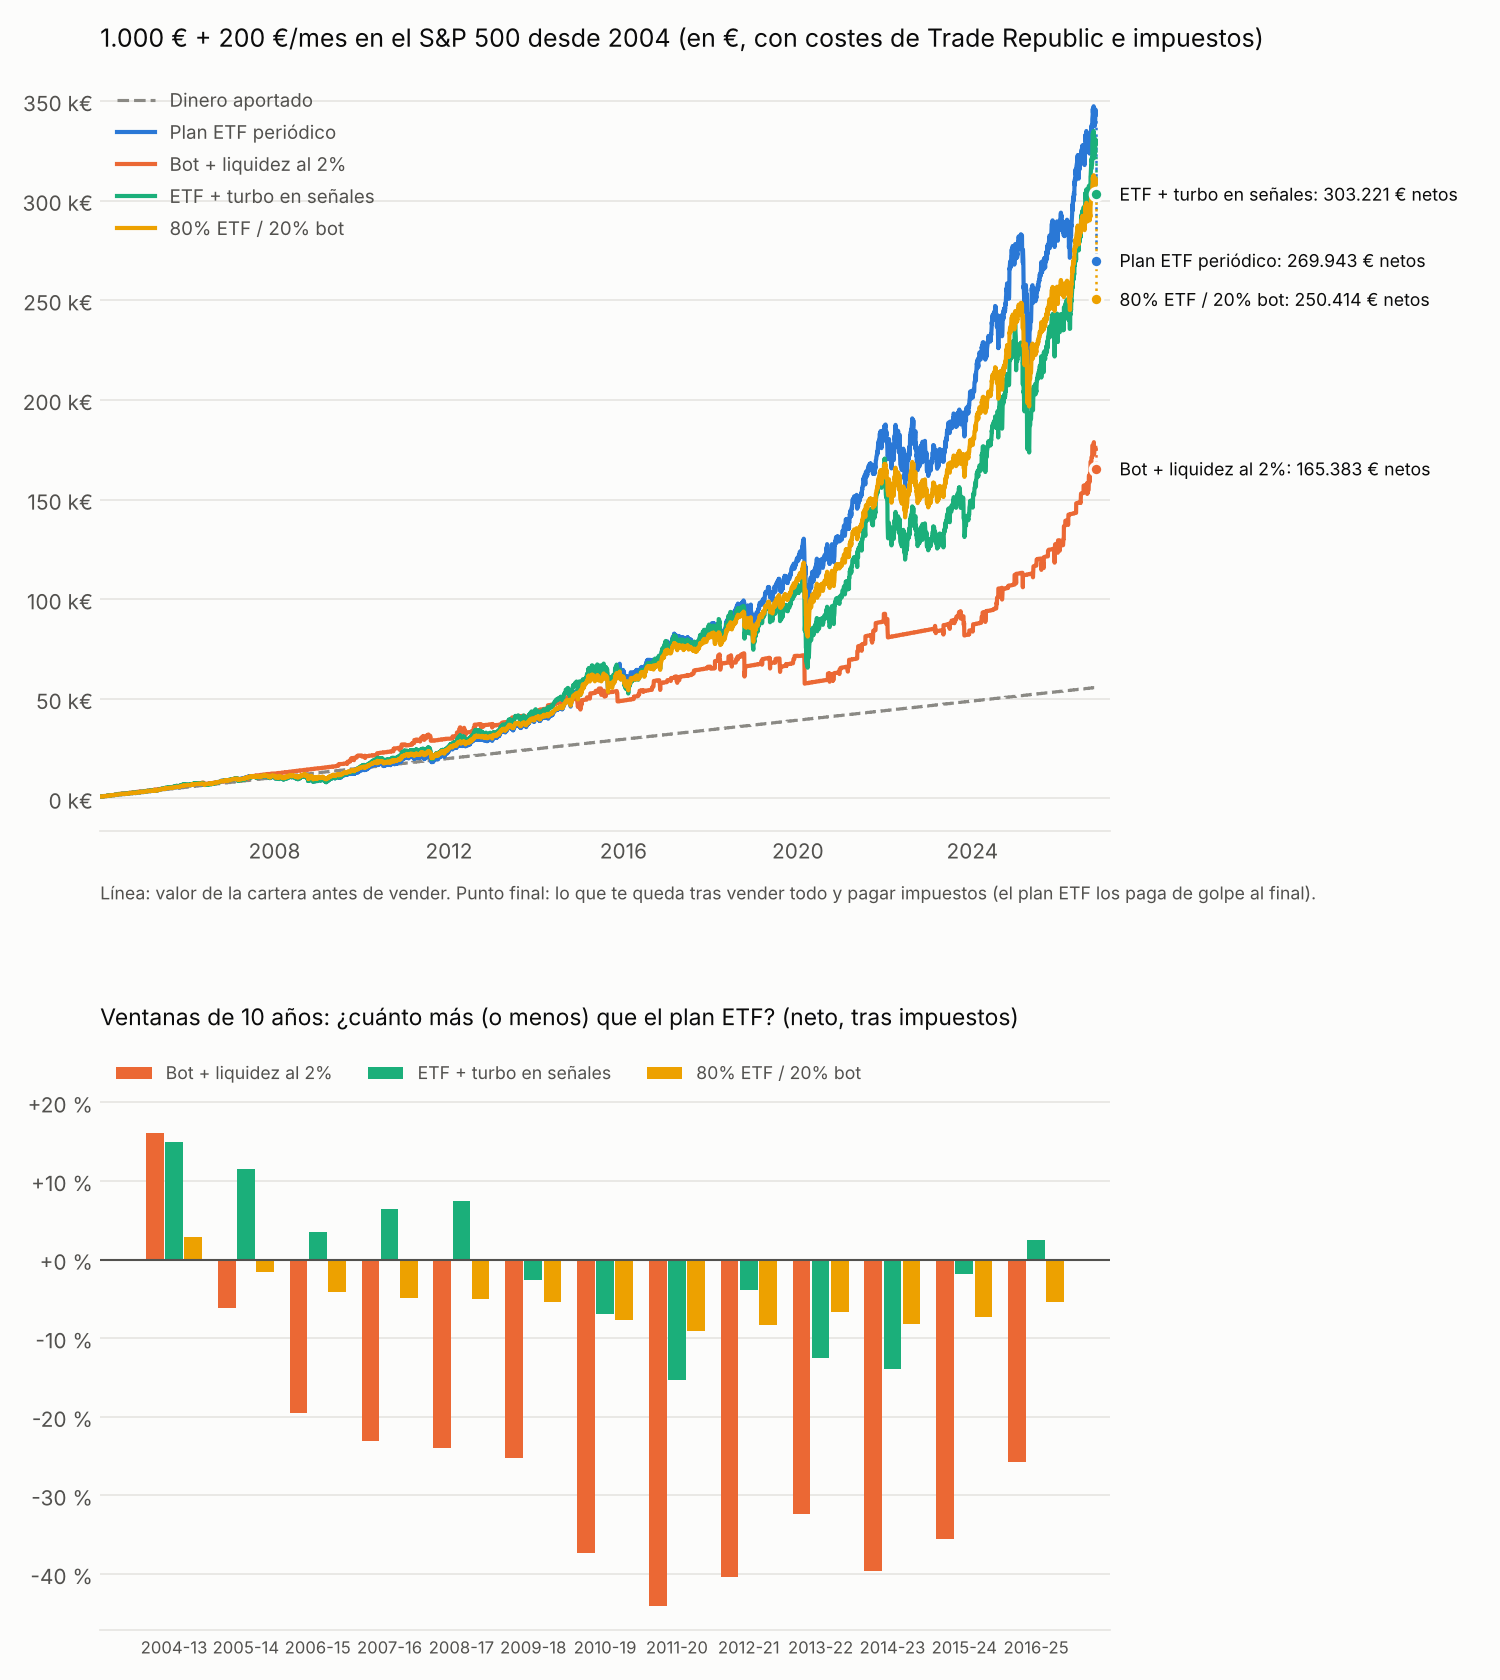
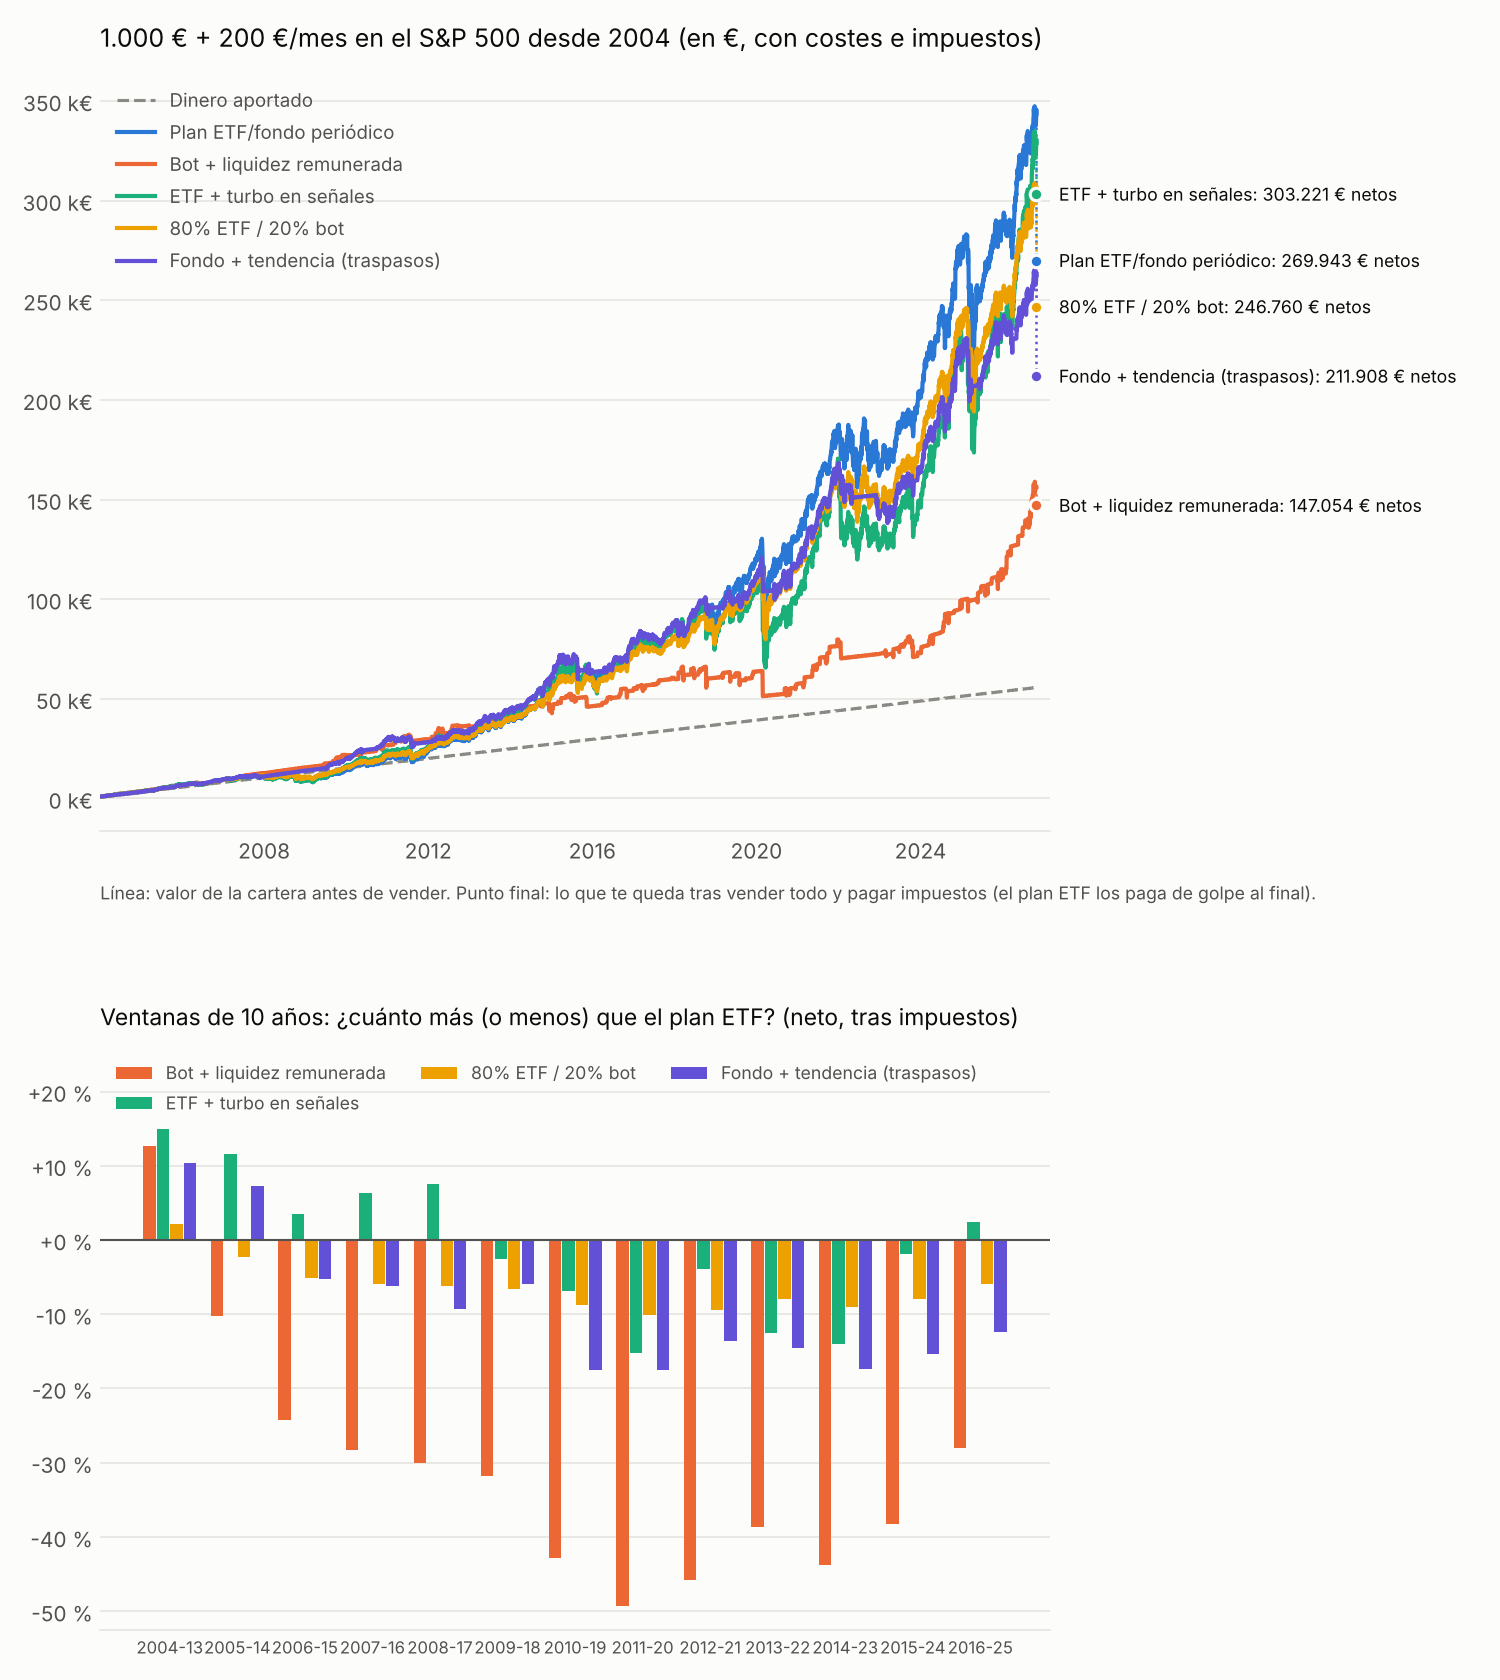
Opción MyInvestor: fondo indexado con filtro de tendencia por traspasos
- Nueva estrategia fondo S&P 500 <-> monetario (regla mensual SMA200) con
  traspasos sin tributación y retraso de ejecución
- Liquidez remunerada con tipos del euro históricos aproximados
- README: comparativa Trade Republic vs MyInvestor y gráfico actualizado

Claude-Session: https://claude.ai/code/session_011mgkmwBCwbqX7FxigTLDYu

diff --git a/swingbot/compare.py b/swingbot/compare.py
@@ -30,6 +30,25 @@ from .strategies import get
 ETF_TR_SYMBOL = "SPY"   # proxy de un ETF UCITS del S&P 500 con dividendos (TER similar)
 ETF_SPREAD = 0.0005     # horquilla al vender/comprar el ETF en el modo turbo
 
+# Tipo del euro a corto plazo, media anual aproximada (EONIA / €STR). Es una
+# aproximación para remunerar la liquidez y el fondo monetario; no son datos oficiales.
+EUR_SHORT_RATE = {
+    2003: 0.023, 2004: 0.021, 2005: 0.021, 2006: 0.028, 2007: 0.039, 2008: 0.039,
+    2009: 0.007, 2010: 0.004, 2011: 0.009, 2012: 0.002, 2013: 0.001, 2014: 0.001,
+    2015: -0.001, 2016: -0.003, 2017: -0.0035, 2018: -0.0036, 2019: -0.0039,
+    2020: -0.0046, 2021: -0.0057, 2022: 0.000, 2023: 0.032, 2024: 0.036, 2025: 0.022,
+    2026: 0.019,
+}
+MONETARY_FEE = 0.0015       # comisión aproximada de un fondo monetario barato
+SWITCH_LAG = 3              # sesiones que tarda en ejecutarse un traspaso switch
+
+
+def eur_cash_daily(dates: pd.DatetimeIndex, fee: float = MONETARY_FEE) -> pd.Series:
+    """Rentabilidad diaria aproximada de la liquidez / fondo monetario en €."""
+    yr = pd.Series(dates.year, index=dates).map(EUR_SHORT_RATE).fillna(0.02)
+    return (yr - fee) / 252
+
+
 # Escala del ahorro en España (IRPF, base del ahorro). Comprobar cada año.
 TAX_BRACKETS_ES = [(6_000, 0.19), (50_000, 0.21), (200_000, 0.23), (300_000, 0.27),
                    (float("inf"), 0.28)]
@@ -137,7 +156,7 @@ def xirr(flows) -> float:
 
 def build_paths(start="2004-01-01", end=None, initial=1_000.0, monthly=200.0,
                 strategy="pullback", leverage=3, product="factor", broker="trade_republic",
-                cash_rate=0.02, satellite=0.2, symbol="^GSPC", taxes=True) -> list[Path]:
+                satellite=0.2, symbol="^GSPC", taxes=True, funds=True) -> list[Path]:
     fx = data.load(config.FX_SYMBOL, start="2003-12-01")["Close"]
     etf = data.load(ETF_TR_SYMBOL, start="1995-01-01")["Close"]
     idx_df = add_indicators(data.load(symbol, start="1995-01-01"))
@@ -168,15 +187,16 @@ def build_paths(start="2004-01-01", end=None, initial=1_000.0, monthly=200.0,
         events.loc[tr.exit_date] += 1
     flat = ~in_pos
 
-    r_cash = r_bot + flat * (cash_rate / 252)
+    # Liquidez remunerada (cuenta remunerada / monetario) con tipos históricos del euro.
+    r_cash = r_bot + flat * eur_cash_daily(dates, fee=0.0)
     # Turbo: ETF cuando no hay operación; se paga la horquilla del ETF al salir y volver.
     r_turbo = r_bot + flat * r_etf - (events > 0) * ETF_SPREAD
 
     fin, ann = ("final", "annual") if taxes else (None, None)
     paths = [
-        _simulate("Plan ETF periódico", r_etf, dates, initial, monthly, taxes=fin),
+        _simulate("Plan ETF/fondo periódico", r_etf, dates, initial, monthly, taxes=fin),
         _simulate(f"Bot solo (x{leverage:g})", r_bot, dates, initial, monthly, events, fee, ann),
-        _simulate(f"Bot + liquidez al {cash_rate:.0%}", r_cash, dates, initial, monthly, events,
+        _simulate("Bot + liquidez remunerada", r_cash, dates, initial, monthly, events,
                   fee, ann),
         # Al vender el ETF para entrar en el turbo se realizan sus plusvalías: tributa cada año.
         _simulate("ETF + turbo en señales", r_turbo, dates, initial, monthly, events, 2 * fee, ann),
@@ -193,7 +213,26 @@ def build_paths(start="2004-01-01", end=None, initial=1_000.0, monthly=200.0,
                       core.invested + sat.invested,
                       (1 + (w * r_etf + satellite * r_cash)).cumprod(), mix_flows,
                       core.taxes_paid + sat.taxes_paid))
+    if funds:
+        paths.append(_trend_fund_path(idx_df, r_etf, dates, initial, monthly, fin))
     return paths
+
+
+def _trend_fund_path(idx_df, r_etf, dates, initial, monthly, taxes) -> Path:
+    """Fondo indexado S&P 500 <-> fondo monetario por traspasos (sin impuestos).
+
+    Regla de tendencia mensual (Faber, 2007): el último día de cada mes, si el
+    S&P 500 cierra por encima de su media de 200 sesiones se está en el fondo
+    indexado; si no, en el monetario. El traspaso tarda SWITCH_LAG sesiones.
+    """
+    month_end = idx_df.index.to_series().groupby(idx_df.index.to_period("M")).transform("max")
+    is_eom = idx_df.index == month_end.values
+    above = (idx_df["Close"] > idx_df["sma200"]).where(is_eom)
+    target = above.ffill().fillna(True).astype(float)
+    invested = target.shift(SWITCH_LAG).fillna(1.0)
+    r = invested * r_etf + (1 - invested) * eur_cash_daily(dates)
+    return _simulate("Fondo + tendencia (traspasos)", r, dates, initial, monthly,
+                     taxes=taxes)
 
 
 def summarize(paths: list[Path]) -> pd.DataFrame:
@@ -290,7 +329,7 @@ def plot(paths: list[Path], rolling: pd.DataFrame | None, out: str, title: str) 
 
     if rolling is not None:
         ax = axes[1]
-        etf = rolling["Plan ETF periódico"]
+        etf = rolling["Plan ETF/fondo periódico"]
         cols = [c for c in rolling.columns[3:] if not c.startswith("Bot solo")]
         n = len(cols)
         w = 0.8 / n
@@ -318,7 +357,7 @@ def plot(paths: list[Path], rolling: pd.DataFrame | None, out: str, title: str) 
         ax.spines["bottom"].set_color(_GRID)
         ax.tick_params(colors=_INK2, length=0)
     fig.tight_layout()
-    fig.subplots_adjust(right=0.74, hspace=0.32)
+    fig.subplots_adjust(right=0.70, hspace=0.32)
     fig.savefig(out, dpi=150, facecolor=_SURF)
     plt.close(fig)
     return out

diff --git a/swingbot/__main__.py b/swingbot/__main__.py
@@ -112,7 +112,7 @@ def main(argv=None):
               f" ({'con' if not a.no_taxes else 'sin'} impuestos)\n")
         print(cmp.fmt_summary(cmp.summarize(paths)))
         roll = cmp.rolling_windows(years=10, **kw)
-        etf = roll["Plan ETF periódico"]
+        etf = roll["Plan ETF/fondo periódico"]
         print("\n## Ventanas de 10 años: veces que gana al plan ETF")
         for col in roll.columns[3:]:
             print(f"  {col:26} {(roll[col] > etf).sum()}/{len(roll)}  "
@@ -121,7 +121,7 @@ def main(argv=None):
             Path(a.out).mkdir(exist_ok=True)
             f = cmp.plot(paths, roll, f"{a.out}/comparacion.png",
                          f"{cmp._eur(a.initial)} + {cmp._eur(a.monthly)}/mes en el S&P 500 desde "
-                         f"{a.start[:4]} (en €, con costes de Trade Republic e impuestos)")
+                         f"{a.start[:4]} (en €, con costes e impuestos)")
             print(f"\nGráfico: {f}")
 
     elif a.cmd == "report":

diff --git a/README.md b/README.md
@@ -213,54 +213,70 @@ Conclusiones para Trade Republic:
 
 ---
 
-## 6. ¿Gana más que aportar periódicamente a un ETF?
+## 6. ¿Gana más que aportar periódicamente a un ETF o fondo?
 
 `python -m swingbot compare --plot` simula **las mismas aportaciones** (1.000 € al
-principio + 200 €/mes) en cinco opciones. Todo en euros, con costes de Trade Republic
-e **impuestos españoles** (escala del ahorro 19-28 %). El plan ETF incluye dividendos
-y paga impuestos sólo al vender al final; el bot paga cada año porque vende en cada
-operación. Puedes cambiar las cantidades: `--initial 5000 --monthly 300 --start 2010`.
+principio + 200 €/mes) en seis opciones. Todo en euros, con costes e **impuestos
+españoles** (escala del ahorro 19-28 %). El plan ETF/fondo incluye dividendos y
+sólo paga impuestos al vender al final; el bot paga cada año porque vende en cada
+operación. La liquidez cobra el tipo del euro de cada año (negativo en 2015-2021).
+Puedes cambiar las cantidades: `--initial 5000 --monthly 300 --start 2010`.
 
 ![Comparación](reports/comparacion.png)
 
 **2004-2026 (1.000 € + 200 €/mes = 55.600 € aportados):**
 
-| Opción | Valor final neto | Impuestos pagados | TIR anual | Peor caída |
+| Opción | Valor final neto | Impuestos | TIR anual | Peor caída |
 |---|---|---|---|---|
-| Plan ETF periódico | 269.943 € | 66.784 € | +11,9 % | −51 % |
-| Bot solo x3 (liquidez sin remunerar) | 133.908 € | 19.499 € | +6,9 % | −29 % |
-| Bot + liquidez al 2 % | 165.383 € | 27.595 € | +8,5 % | −26 % |
-| **ETF + turbo en señales** | **303.221 €** | 65.745 € | **+12,7 %** | −51 % |
-| 80 % ETF / 20 % bot | 250.414 € | 56.746 € | +11,4 % | −42 % |
+| **Plan ETF / fondo indexado periódico** | **269.943 €** | 66.784 € | **+11,9 %** | −51 % |
+| Bot solo x3 (Trade Republic) | 133.908 € | 19.499 € | +6,9 % | −29 % |
+| Bot + liquidez remunerada | 147.054 € | 22.913 € | +7,6 % | −30 % |
+| ETF + turbo en señales | 303.221 € | 65.745 € | +12,7 % | −51 % |
+| 80 % ETF / 20 % bot | 246.760 € | 55.861 € | +11,3 % | −41 % |
+| Fondo + tendencia (traspasos, MyInvestor) | 211.908 € | 45.319 € | +10,3 % | **−21 %** |
 
 **Repetido en todas las ventanas de 10 años (2004-13 … 2016-25):**
 
-| Opción | Gana al plan ETF | Diferencia media |
-|---|---|---|
-| Bot solo / bot + liquidez | 1 de 13 | −32 % / −26 % |
-| ETF + turbo en señales | 6 de 13 | −0,8 % |
-| 80 % ETF / 20 % bot | 1 de 13 | −5,5 % |
+| Opción | Gana al plan | Diferencia media | Peor / mejor ventana |
+|---|---|---|---|
+| Bot solo | 1 de 13 | −32 % | −49 % / +6 % |
+| Bot + liquidez remunerada | 1 de 13 | −31 % | −49 % / +13 % |
+| ETF + turbo en señales | 6 de 13 | −0,8 % | −15 % / +15 % |
+| 80 % ETF / 20 % bot | 1 de 13 | −6 % | −10 % / +2 % |
+| Fondo + tendencia (traspasos) | 2 de 13 | −9 % | −18 % / +10 % |
+
+"Fondo + tendencia": el último día de cada mes, si el S&P 500 está por encima de su
+media de 200 sesiones, el dinero está en un fondo indexado; si no, se traspasa a un
+fondo monetario (Faber, 2007). En España **los traspasos entre fondos no tributan**,
+así que esta estrategia no tiene el problema fiscal del bot. Se simula con 3 sesiones
+de retraso por traspaso.
 
 Conclusiones:
 
-1. **El bot solo NO gana a aportar periódicamente.** Tiene el dinero parado el ~92 %
-   del tiempo y la bolsa sube la mayoría de los días. Sólo ganó en la década que
-   empieza con la crisis de 2008, porque se cayó mucho menos.
-2. **"ETF + turbo"** (tener siempre el ETF y cambiarlo por el x3 sólo cuando hay señal)
-   es la única opción que mejora al plan ETF en algunos periodos: +12 % en 22 años.
-   Pero en ventanas de 10 años **es una moneda al aire** (6 de 13, −0,8 % de media),
-   porque **los impuestos se comen la ventaja**: al vender el ETF en cada señal tributas
-   cada año, en lugar de dejar crecer el dinero sin pagar hasta el final.
-3. Sin impuestos, "ETF + turbo" ganaría claramente (466.843 € frente a 336.727 €).
-   Esa diferencia la paga sobre todo el diferimiento fiscal del plan ETF.
-4. **Para un inversor en España con aportaciones periódicas, lo racional es que el
-   núcleo sea el plan ETF.** El bot tiene sentido como parte pequeña, para aprender y
-   operar, no como sustituto.
+1. **Ninguna estrategia activa gana de forma fiable a aportar cada mes a un indexado.**
+2. El bot solo pierde claramente: el dinero está parado el ~92 % del tiempo.
+3. "ETF + turbo" es una moneda al aire tras impuestos.
+4. "Fondo + tendencia" gana algo menos (−9 % de media en 10 años), pero **reduce la
+   peor caída del −51 % al −21 %**. Si lo que te importa es no ver tu dinero a la
+   mitad en una crisis, es la opción más interesante.
+5. Para un inversor en España con aportaciones periódicas: **la base debe ser un
+   fondo indexado** (mejor que un ETF, por los traspasos sin impuestos).
 
-Limitaciones: en España tampoco se pueden compensar pérdidas si recompras el mismo
-valor en menos de 2 meses (regla antiaplicación), y eso no está modelado, así que
-perjudicaría aún más a las opciones activas. El interés de la liquidez se simplifica
-a un 2 % fijo. El certificado factor se simula sin dividendos (supuesto conservador).
+### ¿Trade Republic o MyInvestor?
+
+| Para… | Mejor opción | Por qué |
+|---|---|---|
+| Aportar cada mes al S&P 500 / MSCI World | **MyInvestor (fondo indexado)** | Fondos sin comisión de compra ni custodia y **traspasables sin pagar impuestos**: puedes cambiar de fondo o reequilibrar sin tocar Hacienda. Un ETF siempre tributa al vender. |
+| Estrategia de tendencia (fondo ↔ monetario) | **MyInvestor** | Sólo es viable con fondos por los traspasos; mejor con fondos de la misma gestora (traspaso *switch*, más rápido). |
+| El bot de swing x3 | **Trade Republic** | Tiene certificados factor / knock-outs, comisión fija de 1 € y horario hasta las 23:00. En MyInvestor no encontré productos apalancados y los ETFs cuestan 0,12 % por operación (mín. 1 €). |
+| Liquidez | Cualquiera que la remunere | — |
+
+Limitaciones: la regla española de los 2 meses (no compensar pérdidas si recompras
+el mismo valor) no está modelada y perjudicaría aún más a las opciones activas.
+Los tipos del euro por año son aproximados. Los traspasos pueden tardar más de 3
+sesiones entre gestoras distintas (8-15 días naturales según usuarios) y algunas
+gestoras limitan los traspasos frecuentes. El certificado factor se simula sin
+dividendos (supuesto conservador).
 
 ---
 
@@ -275,7 +291,7 @@ swingbot/
                  intradía con gaps, costes, financiación, liquidación, métricas
   scanner.py     señales del día
   report.py      rejilla de robustez + validación fuera de muestra
-  compare.py     bot frente a plan ETF periódico (aportaciones, impuestos, gráfico)
+  compare.py     bot frente a plan ETF/fondo periódico y tendencia con traspasos (impuestos, gráfico)
   config.py      índices, instrumentos, brókers (TR / DEGIRO), productos y parámetros
 tests/           tests del motor (apalancamiento, TP/SL, gaps)
 ```
